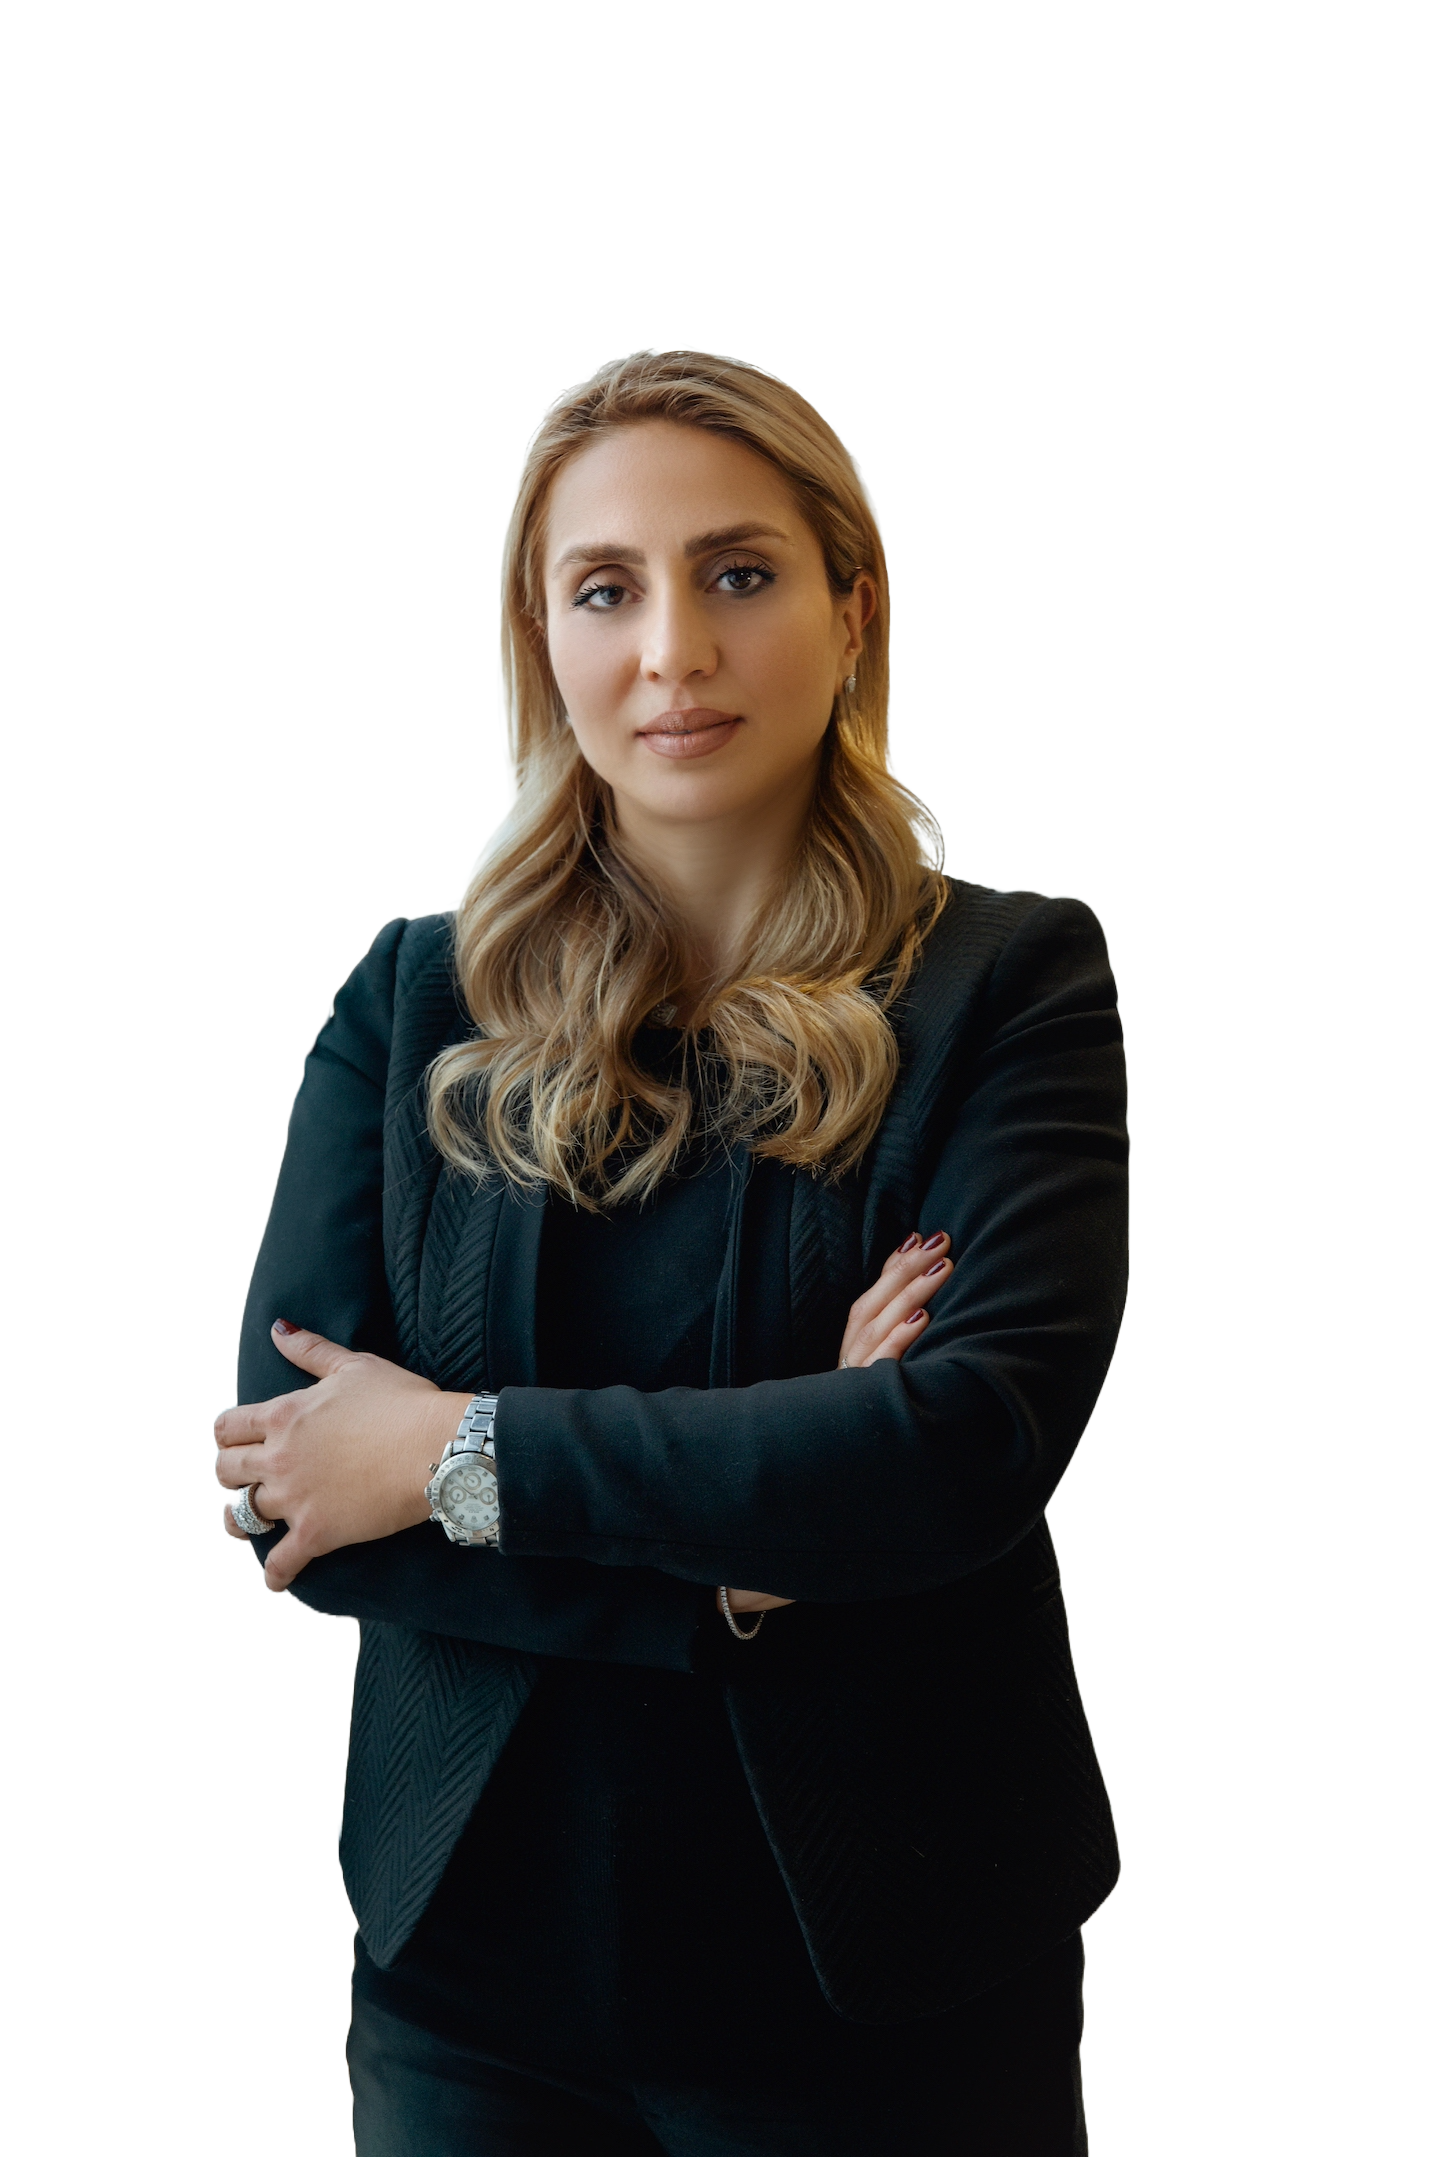
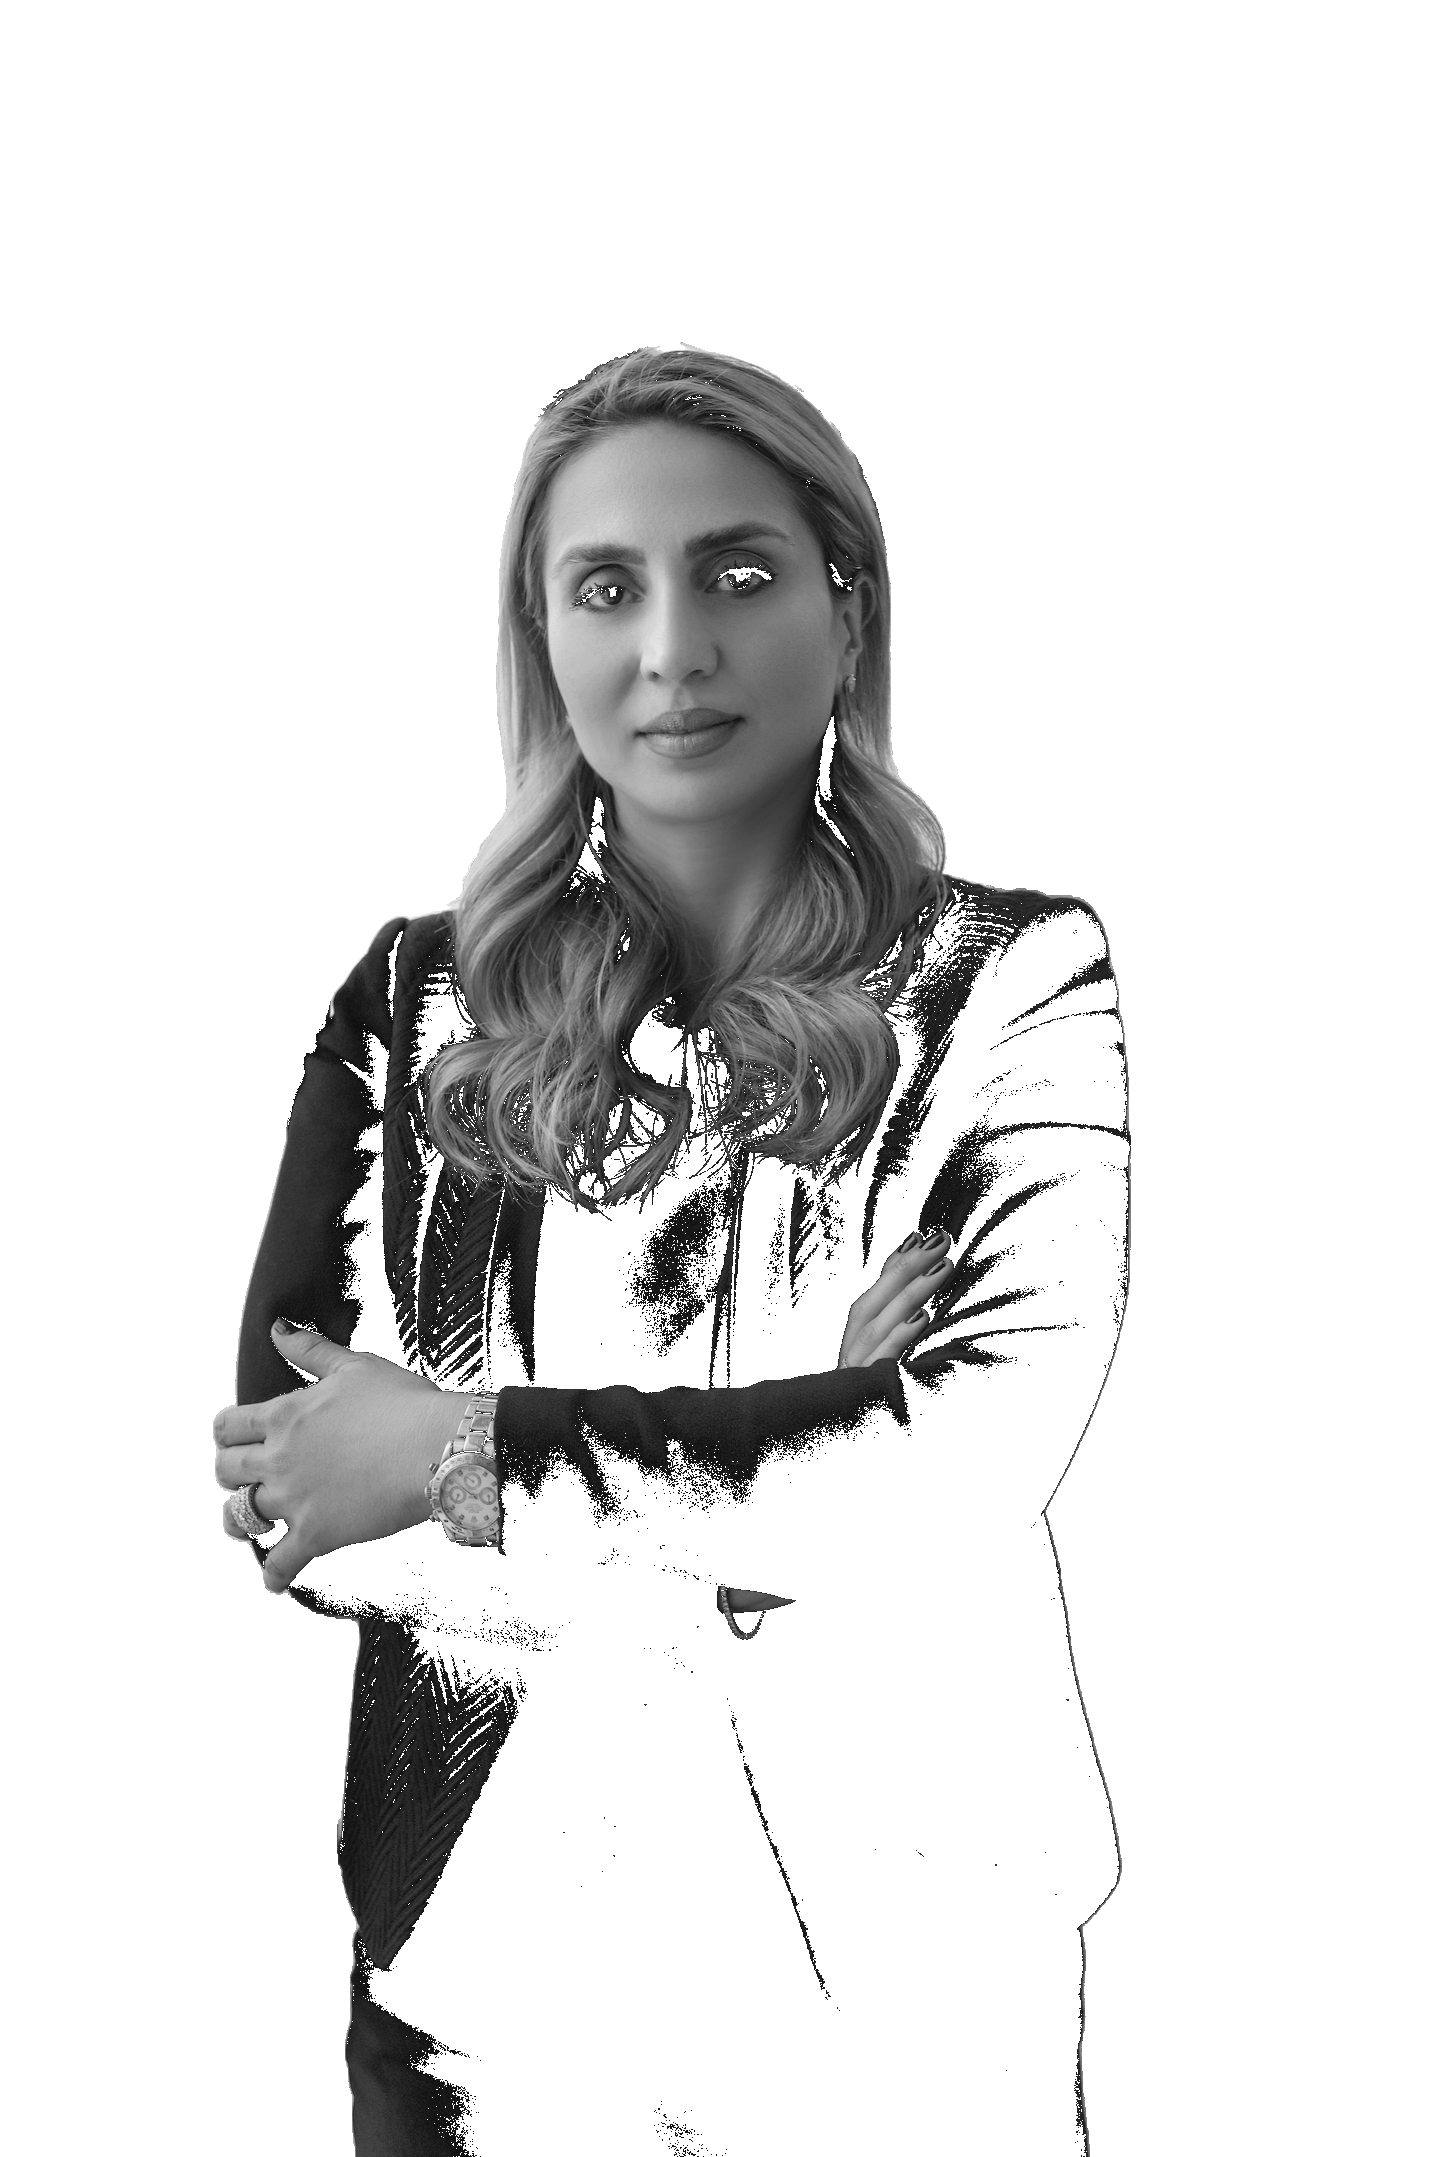
Headshots: B&W + bg removed; services photo swapped; screenshots renamed
- parham-shariat.png and shirin-salamat.png: black bg removed, converted to greyscale with transparency
- services-kitchen.png: white transitional kitchen (replaces modern kitchen shared with homepage)
- kitchen-flooring.png, fireplace-living.png: clean names for future placement
- services/page.tsx: points to new services-kitchen.png

Changed region(s): [[0.1562, 0.1553, 0.8125, 1.0]]

diff --git a/src/app/(public)/services/page.tsx b/src/app/(public)/services/page.tsx
@@ -86,8 +86,8 @@ export default function ServicesPage() {
       <div style={{ position: "relative", height: 480, overflow: "hidden" }}>
         {/* eslint-disable-next-line @next/next/no-img-element */}
         <img
-          src="/project-modern-kitchen.png"
-          alt="Modern kitchen remodel by US Floor Design Center"
+          src="/services-kitchen.png"
+          alt="Kitchen remodel by US Floor Design Center"
           style={{ width: "100%", height: "100%", objectFit: "cover", objectPosition: "center 55%", display: "block" }}
         />
         <div style={{
